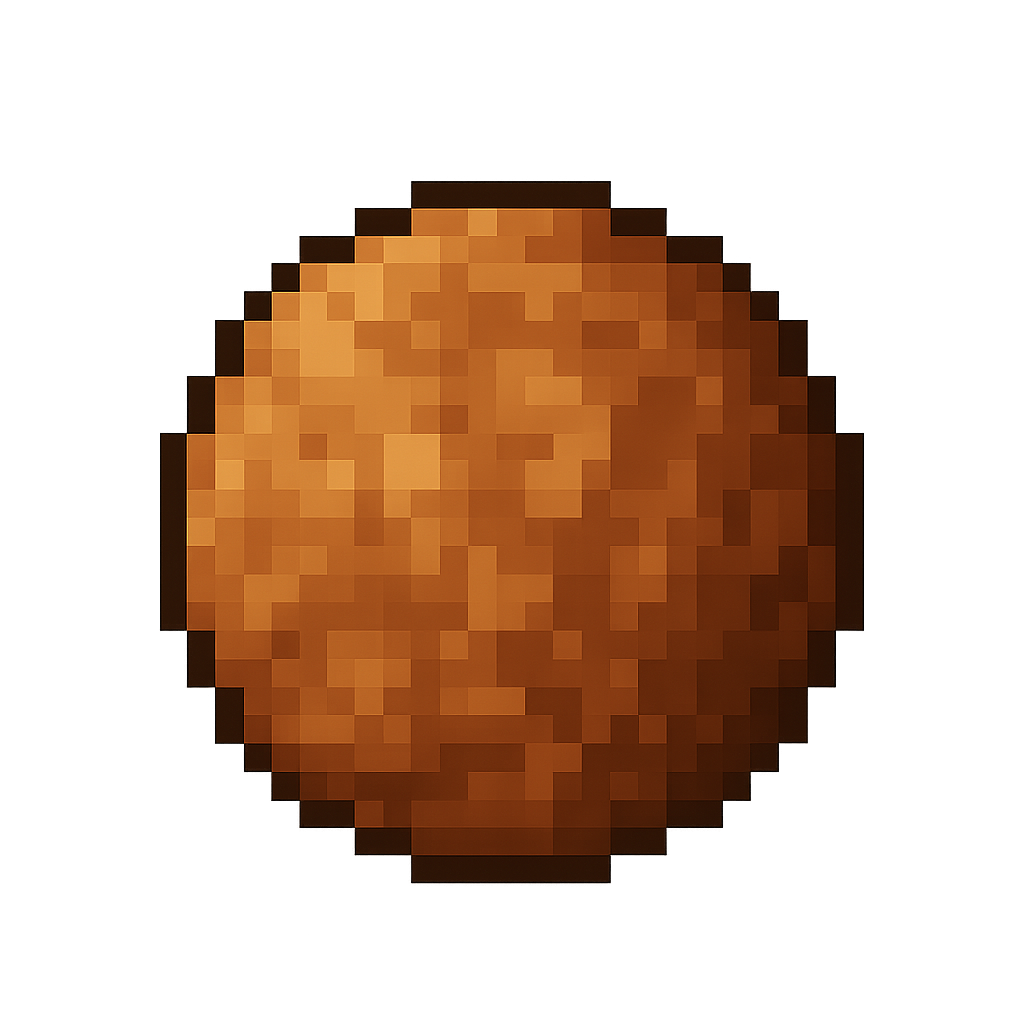
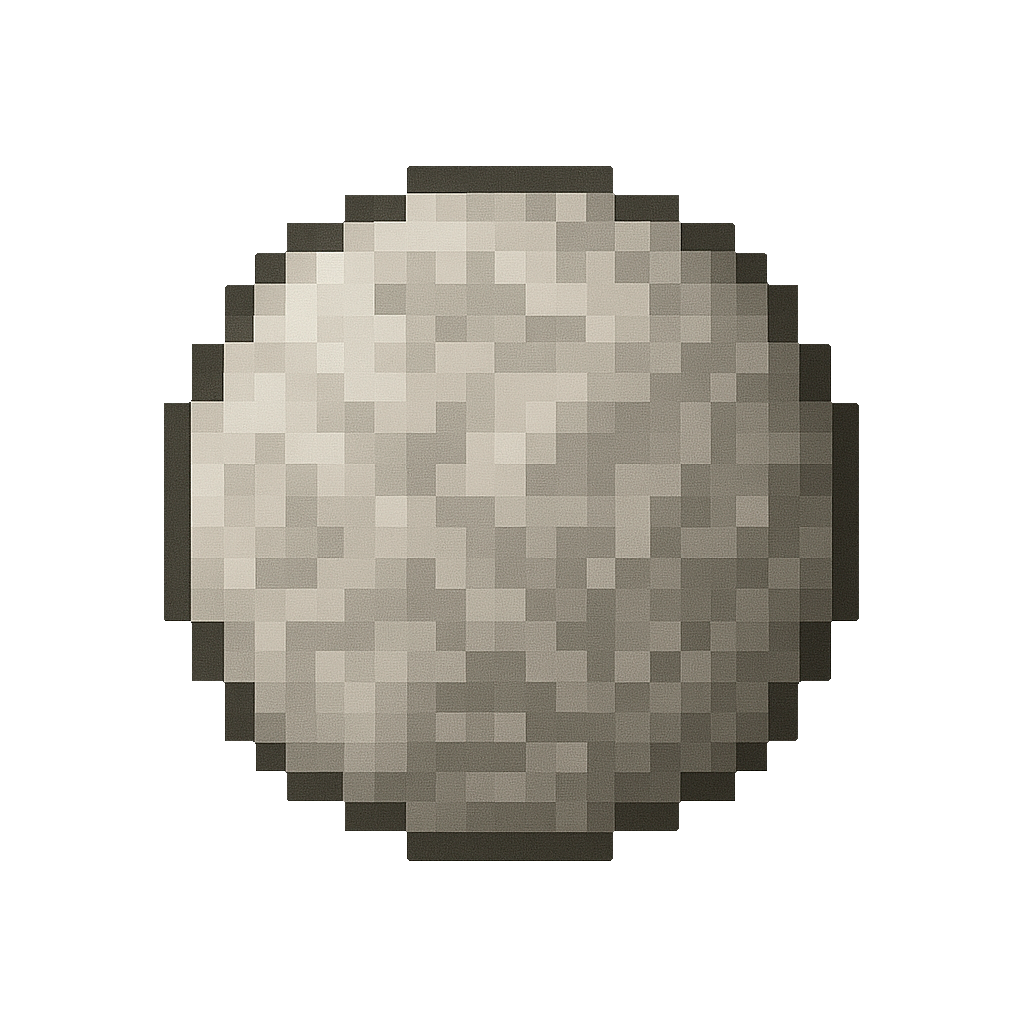
-Adicionado estrelas no menu de seleção de planetas -Troca de sprite do planeta Mercúrio

diff --git a/screens/level_selection.py b/screens/level_selection.py
@@ -1,5 +1,6 @@
 import pygame
 import math
+import random
 from core.state_manager import State
 from screens.gameplay import GameplayState
 
@@ -10,7 +11,7 @@ class LevelSelectionState(State):
 
         # Configuração dos planetas
         self.planets = [
-            {"name": "Mercúrio", "image": "assets/images/earth.png"}, # mudar imagem
+            {"name": "Mercúrio", "image": "assets/images/mercury.png"}, # mudar imagem
             {"name": "Vênus", "image": "assets/images/earth.png"}, # mudar imagem
             {"name": "Terra", "image": "assets/images/earth.png"},
             {"name": "Marte", "image": "assets/images/earth.png"}, # mudar imagem
@@ -27,6 +28,21 @@ class LevelSelectionState(State):
                 pygame.image.load(planet["image"]).convert_alpha(), (500, 500)  
             )
             for planet in self.planets
+        ]
+        
+        # Obter o tamanho da tela para as estrelas
+        width, height = pygame.display.get_surface().get_size()
+        
+        # Criar estrelas no fundo
+        self.stars = [
+            {
+                "x": random.randint(0, width),  # Posição horizontal
+                "y": random.randint(0, height),  # Posição vertical
+                "radius": random.randint(1, 3),  # Tamanho da estrela
+                "brightness": random.randint(50, 255),  # Brilho inicial (50 a 255)
+                "blink_speed": random.uniform(0.5, 2.0),  # Velocidade de piscada (0.5 a 2 segundos)
+            }
+            for _ in range(114)  # Número de estrelas
         ]
         
         # Animação das letras e planetas
@@ -69,10 +85,20 @@ class LevelSelectionState(State):
         # Atualizar o brilho dos planetas com pulsação suave
         self.brightness_time += dt
         self.brightness_scale = 1.0 + 0.01 * math.sin(self.brightness_time * 1.5)  # Suavizado
+        
+        # Atualizar o brilho das estrelas
+        for star in self.stars:
+            star["brightness"] = 128 + 127 * math.sin(pygame.time.get_ticks() * 0.001 * star["blink_speed"])
 
     def draw(self, screen):
         screen.fill((0, 0, 0))  # Fundo preto
         width, height = screen.get_size()
+
+        # Desenhar estrelas de fundo
+        for star in self.stars:
+            brightness = max(0, min(255, int(star["brightness"])))  # Garantir que o brilho esteja entre 0 e 255
+            color = (brightness, brightness, brightness)  # Cor da estrela (escala de cinza)
+            pygame.draw.circle(screen, color, (star["x"], star["y"]), star["radius"])
 
         # Exibir o planeta selecionado
         planet_image = self.planet_images[self.current_index]
